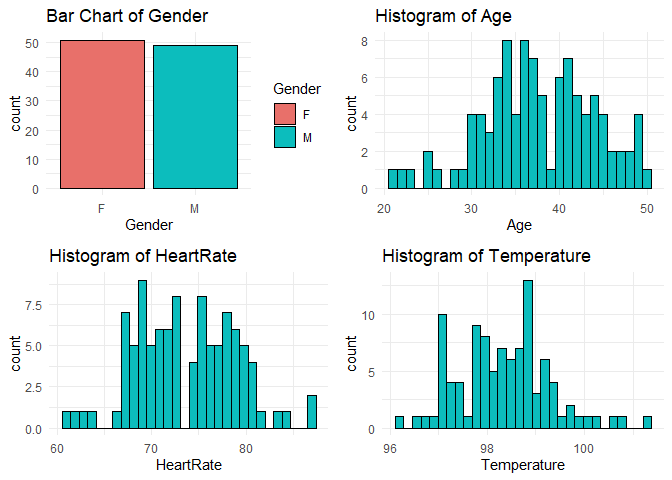
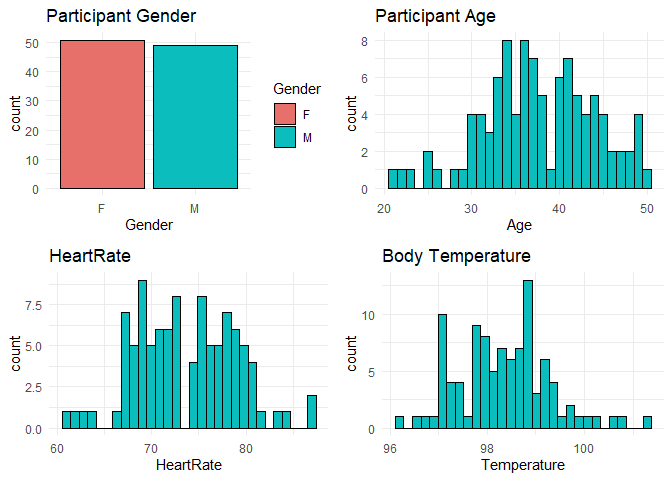
revise plots

diff --git a/README.md b/README.md
@@ -405,17 +405,17 @@ source("100_Plot individual variables.R", echo = TRUE)
     ## > p2 <- ggplot(BodyTemperature, aes(Age))
     ## 
     ## > p2 <- p2 + geom_histogram(aes(color = Age), color = "black", 
-    ## +     fill = "#0CBDBD") + theme_minimal() + labs(title = "Histogram of Age")
+    ## +     fill = "#0CBDBD") + theme_minimal() + labs(title = "Participant Age")
     ## 
     ## > p3 <- ggplot(BodyTemperature, aes(HeartRate))
     ## 
     ## > p3 <- p3 + geom_histogram(aes(color = HeartRate), 
-    ## +     color = "black", fill = "#0CBDBD") + theme_minimal() + labs(title = "Histogram of HeartRate ..." ... [TRUNCATED] 
+    ## +     color = "black", fill = "#0CBDBD") + theme_minimal() + labs(title = "HeartRate")
     ## 
     ## > p4 <- ggplot(BodyTemperature, aes(Temperature))
     ## 
     ## > p4 <- p4 + geom_histogram(aes(color = Temperature), 
-    ## +     color = "black", fill = "#0CBDBD") + theme_minimal() + labs(title = "Histogram of Tempera ..." ... [TRUNCATED] 
+    ## +     color = "black", fill = "#0CBDBD") + theme_minimal() + labs(title = "Body Temperature")
     ## 
     ## > grid.arrange(p1, p2, p3, p4, nrow = 2, ncol = 2)
 
